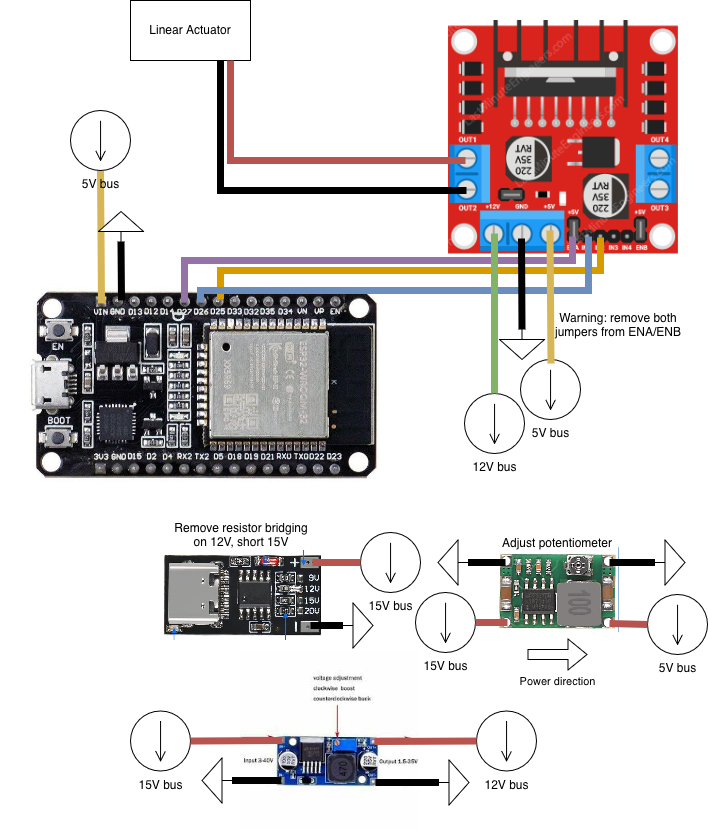
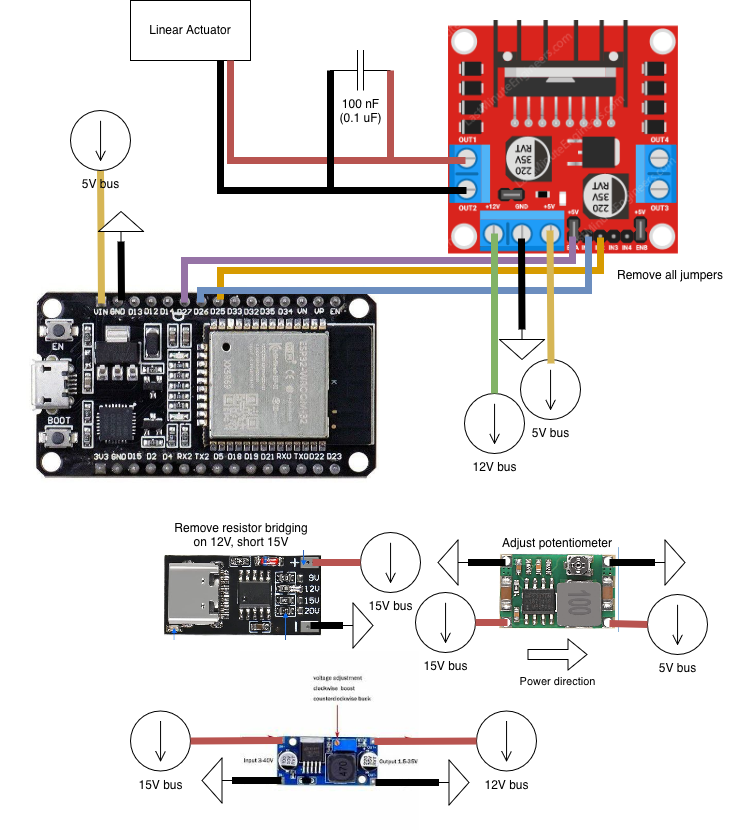
docs: update with capacitor and jumper removal

diff --git a/docs/README.md b/docs/README.md
@@ -13,7 +13,7 @@ Welcome to the `ada-pusher` documentation.
 | Mini360 | [Amazon](https://www.amazon.com/dp/B08HQDSQZP) | Buck converter (15V -> 5V), suitable for low power applications such as the ESP32 board |
 | USB-C PD Trigger Board | [Amazon](https://www.amazon.com/dp/B0CFTXRHLV) | Any trigger board should work, just make sure it supports 15V profile at minimum! |
 | Suction cups | [Amazon](https://www.amazon.com/dp/B0DFLZ5FX4) | Other suction cups may need calibration, see notes below |
-
+| 100 nF (0.1 uF) capacitor | | |
 
 
 ### Notes
@@ -39,8 +39,9 @@ Welcome to the `ada-pusher` documentation.
 
 ![Circuit diagram](./wiring-diagram/image.png)
 
-- Make sure to remove both jumpers from the `ENA` and `ENB` pins of the `L298N` driver.
-- Not specified in the diagram; you **must** also remove the voltage regulator jumper (above the 12V and `GND` terminals)! This is because we supply our own 5V, and having it conflict with the 5V voltage regulator of the `L298N` driver board would be problematic!
+- For the `L298N` driver:
+  - Make sure to remove all jumpers. This includes the `ENA` and `ENB` pins, and the voltage regulator jumper (above the 12V and `GND` terminals)! This is because we supply our own 5V, and having it conflict with the 5V voltage regulator of the `L298N` driver board would be problematic!
+  - Solder a 100 nF (0.1 uF) capacitor across the output pins (the pins that connect to the linear actuator)
 - Adjust the potentiometer on the Mini360 until the output voltage is 5V when input is 15V.
 - Adjust the potentiometer on the LM2596 until the output voltage is 12V when input is 15V.
 - For the USB-C trigger board:
